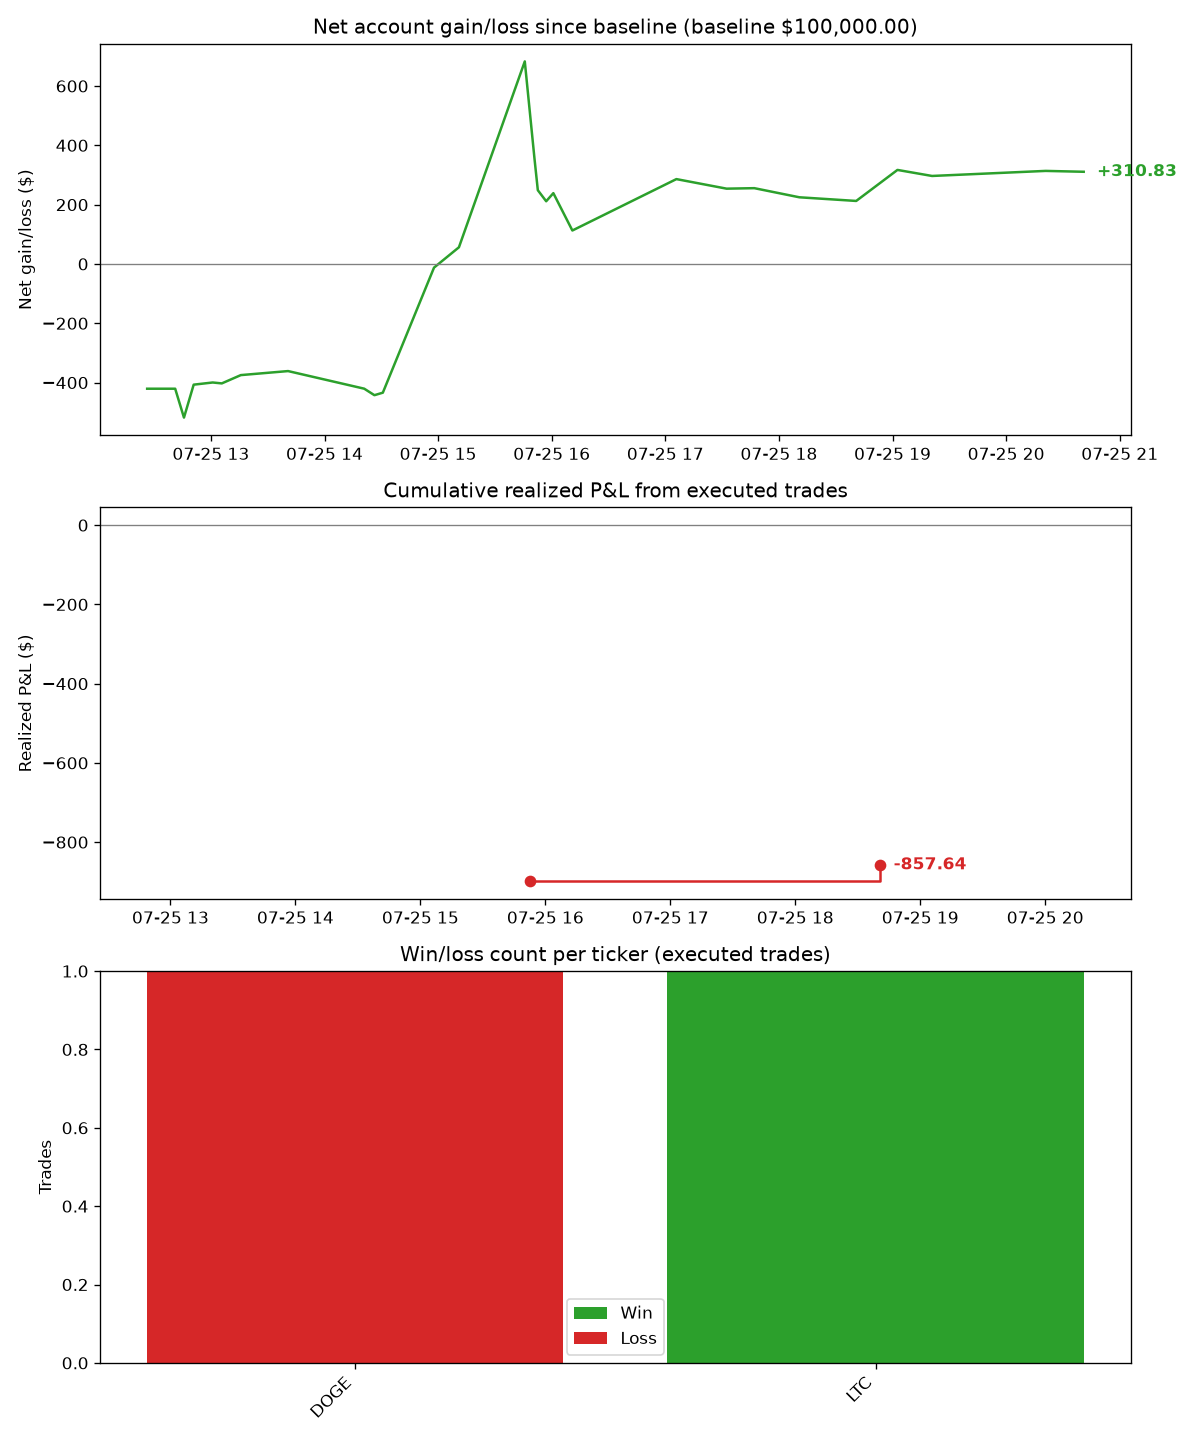
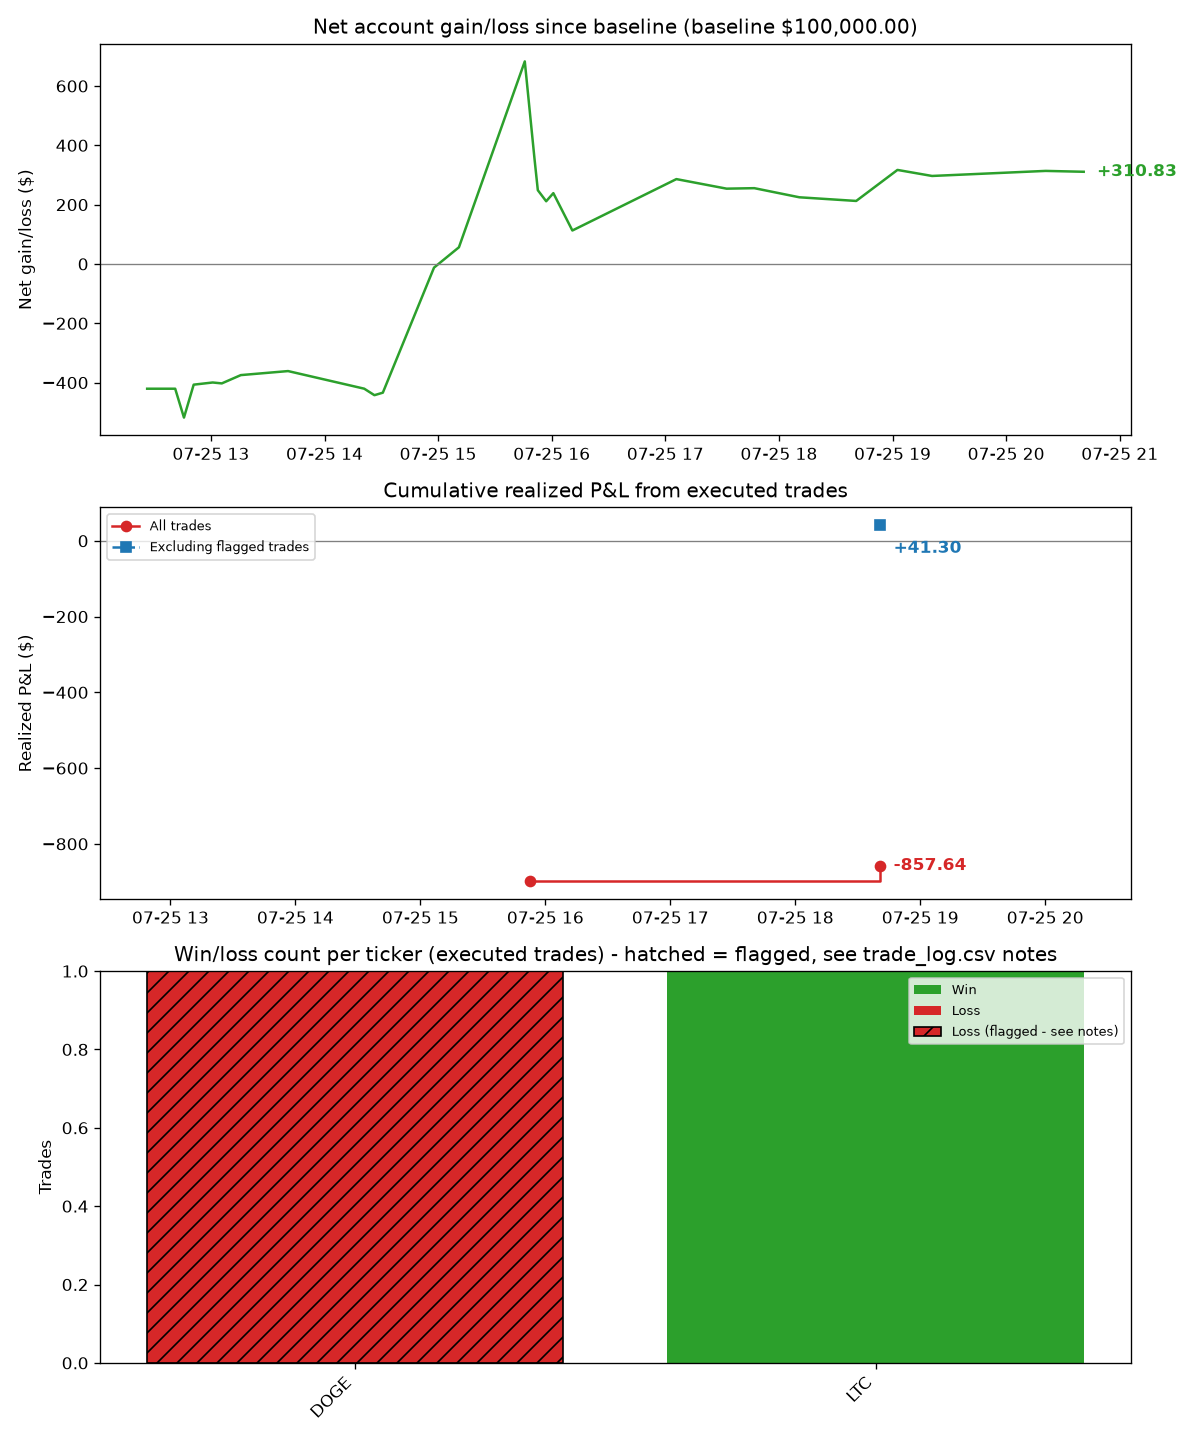
Add a way to flag unrepresentative trades without hiding them
The DOGE loss was real money lost, but its size (and therefore the
loss) was inflated by the now-fixed position-detection bug, not a
normal consequence of the strategy's own entry/exit logic. Silently
excluding it would be dishonest; showing it with zero context blends a
one-time operational bug in with the strategy's actual track record,
overstating how badly the rules themselves are performing.

Added a "notes" column to trade_log.csv - manual, empty by default,
never auto-populated - for flagging a specific trade this way. Backfilled
the DOGE row with an explanation of exactly why it's flagged. Updated
visualize_log.py to use it: the win/loss panel hatches flagged trades
instead of blending them in, and the cumulative realized P&L panel adds
an "excluding flagged trades" line alongside the real one, so both the
honest full history (-$857.64, including DOGE) and the "how are the
rules actually doing" view (+$41.30, LTC only) are visible together.
README updated to document the new column.

diff --git a/visualize_log.py b/visualize_log.py
@@ -14,9 +14,16 @@ Three panels:
      the *trades themselves* are profitable, separate from e.g. paper cash
      just sitting there or unrealized swings on open positions. Approximate:
      (sell price - entry price) * qty sold, ignoring the exact fee Alpaca
-     charged that trade.
+     charged that trade. If any trade has a note in trade_log.csv's
+     `notes` column (e.g. flagging it as inflated by a since-fixed bug,
+     not representative of the strategy's own decision quality), a
+     second "excluding flagged trades" line is plotted alongside the
+     real one - never hidden, just distinguished, so both the honest
+     full history and the "how is the strategy itself doing" view are
+     visible at once.
   3. Win/loss count per ticker, from the same executed SELL trades - which
-     tickers are actually working vs. not.
+     tickers are actually working vs. not. Flagged trades are hatched in
+     this panel too, same reasoning as above.
 
 Reads whatever data exists; a strategy that trades rarely will produce a
 sparse panel 2/3, not an error. Doesn't hit the network or place any
@@ -70,6 +77,12 @@ def main():
             sells["realized_pnl_usd"] = (
                 sells["price_usd"] - sells["avg_entry_price_usd"]
             ) * sells["position_qty_before"]
+            # Older trade_log.csv files (before "notes" existed) won't have
+            # this column at all - treat that the same as "nothing flagged".
+            if "notes" in sells.columns:
+                sells["flagged"] = sells["notes"].notna() & (sells["notes"].astype(str).str.strip() != "")
+            else:
+                sells["flagged"] = False
 
     fig, axes = plt.subplots(3, 1, figsize=(10, 12))
 
@@ -101,10 +114,34 @@ def main():
     if not sells.empty:
         cum_pnl = sells.set_index("timestamp_utc")["realized_pnl_usd"].cumsum()
         color = "tab:green" if cum_pnl.iloc[-1] >= 0 else "tab:red"
+        has_flagged = sells["flagged"].any()
         # marker="o" so a single trade (a single point - nothing to "step"
         # between yet) still shows up as something visible rather than an
         # empty-looking plot.
-        ax.step(cum_pnl.index, cum_pnl.values, where="post", color=color, marker="o")
+        ax.step(cum_pnl.index, cum_pnl.values, where="post", color=color, marker="o",
+                label="All trades" if has_flagged else None)
+        ax.annotate(
+            f"{cum_pnl.iloc[-1]:+,.2f}",
+            xy=(cum_pnl.index[-1], cum_pnl.iloc[-1]),
+            xytext=(8, 0), textcoords="offset points",
+            fontweight="bold", color=color, va="center",
+        )
+
+        if has_flagged:
+            clean = sells[~sells["flagged"]]
+            if not clean.empty:
+                cum_clean = clean.set_index("timestamp_utc")["realized_pnl_usd"].cumsum()
+                clean_color = "tab:blue"
+                ax.step(cum_clean.index, cum_clean.values, where="post", color=clean_color,
+                        marker="s", linestyle="--", label="Excluding flagged trades")
+                ax.annotate(
+                    f"{cum_clean.iloc[-1]:+,.2f}",
+                    xy=(cum_clean.index[-1], cum_clean.iloc[-1]),
+                    xytext=(8, -14), textcoords="offset points",
+                    fontweight="bold", color=clean_color, va="center",
+                )
+            ax.legend(loc="upper left", fontsize=8)
+
         ax.axhline(0, color="gray", linewidth=0.8)
         ax.set_title("Cumulative realized P&L from executed trades")
         ax.set_ylabel("Realized P&L ($)")
@@ -117,31 +154,44 @@ def main():
         elif len(cum_pnl) == 1:
             pad = pd.Timedelta(hours=1)
             ax.set_xlim(cum_pnl.index[0] - pad, cum_pnl.index[0] + pad)
-        ax.annotate(
-            f"{cum_pnl.iloc[-1]:+,.2f}",
-            xy=(cum_pnl.index[-1], cum_pnl.iloc[-1]),
-            xytext=(8, 0), textcoords="offset points",
-            fontweight="bold", color=color, va="center",
-        )
     else:
         ax.set_title("Cumulative realized P&L from executed trades (no closed trades yet)")
         ax.text(0.5, 0.5, "No executed SELL trades in logs/trade_log.csv yet", ha="center", va="center")
 
     ax = axes[2]
     if not sells.empty:
-        wins = sells[sells["realized_pnl_usd"] > 0].groupby("ticker").size()
-        losses = sells[sells["realized_pnl_usd"] <= 0].groupby("ticker").size()
-        tickers = sorted(set(wins.index) | set(losses.index))
-        wins = wins.reindex(tickers, fill_value=0)
-        losses = losses.reindex(tickers, fill_value=0)
+        is_win = sells["realized_pnl_usd"] > 0
+        tickers = sorted(sells["ticker"].unique())
+
+        def counts(mask):
+            return sells[mask].groupby("ticker").size().reindex(tickers, fill_value=0)
+
+        wins_clean = counts(is_win & ~sells["flagged"])
+        wins_flagged = counts(is_win & sells["flagged"])
+        losses_clean = counts(~is_win & ~sells["flagged"])
+        losses_flagged = counts(~is_win & sells["flagged"])
+
         x = range(len(tickers))
-        ax.bar(x, wins.values, label="Win", color="tab:green")
-        ax.bar(x, losses.values, bottom=wins.values, label="Loss", color="tab:red")
+        ax.bar(x, wins_clean.values, label="Win", color="tab:green")
+        bottom = wins_clean.values
+        if wins_flagged.sum() > 0:
+            ax.bar(x, wins_flagged.values, bottom=bottom, label="Win (flagged - see notes)",
+                   color="tab:green", hatch="//", edgecolor="black")
+            bottom = bottom + wins_flagged.values
+        ax.bar(x, losses_clean.values, bottom=bottom, label="Loss", color="tab:red")
+        bottom = bottom + losses_clean.values
+        if losses_flagged.sum() > 0:
+            ax.bar(x, losses_flagged.values, bottom=bottom, label="Loss (flagged - see notes)",
+                   color="tab:red", hatch="//", edgecolor="black")
+
         ax.set_xticks(list(x))
         ax.set_xticklabels(tickers, rotation=45, ha="right")
-        ax.set_title("Win/loss count per ticker (executed trades)")
+        title = "Win/loss count per ticker (executed trades)"
+        if sells["flagged"].any():
+            title += " - hatched = flagged, see trade_log.csv notes"
+        ax.set_title(title)
         ax.set_ylabel("Trades")
-        ax.legend()
+        ax.legend(fontsize=8)
     else:
         ax.set_title("Win/loss count per ticker (no closed trades yet)")
         ax.text(0.5, 0.5, "No executed SELL trades in logs/trade_log.csv yet", ha="center", va="center")

diff --git a/live_trade.py b/live_trade.py
@@ -41,8 +41,13 @@ TRADE_LOG_PATH = Path("logs/trade_log.csv")
 TRADE_LOG_FIELDS = [
     "timestamp_utc", "mode", "asset_class", "ticker", "strategy",
     "action", "price_usd", "notional_usd", "position_qty_before",
-    "avg_entry_price_usd", "unrealized_gain_pct", "order_placed",
+    "avg_entry_price_usd", "unrealized_gain_pct", "order_placed", "notes",
 ]
+# "notes" is never auto-populated by the bot - it's a manual annotation
+# slot for flagging a specific trade as unrepresentative (e.g. inflated
+# by a since-fixed bug), so visualize_log.py can show both "as it
+# happened" and "excluding known anomalies" without ever deleting or
+# hiding the real data.
 
 # Deliberately separate from trade_log.csv and always one row per run (not
 # per ticker): trade_log.csv only records actual BUY/SELL decisions - most
@@ -304,6 +309,7 @@ def main():
                 "avg_entry_price_usd": f"{decision['entry_price']:.6f}" if decision["entry_price"] else "",
                 "unrealized_gain_pct": f"{decision['gain_pct'] * 100:.2f}" if decision["gain_pct"] is not None else "",
                 "order_placed": executed,
+                "notes": "",
             })
 
     log_equity({

diff --git a/README.md b/README.md
@@ -706,9 +706,15 @@ Every `live_trade.py` run writes to two separate CSVs, both git-tracked so
   (dry-run or executed): `timestamp_utc`, `mode`, `asset_class`, `ticker`,
   `strategy`, `action`, `price_usd`, `notional_usd`,
   `position_qty_before`, `avg_entry_price_usd`, `unrealized_gain_pct`
-  (already a percentage, e.g. `1.08` means +1.08%, not `0.0108`), and
-  `order_placed` (whether it was a live order vs. a dry run). **HOLD
-  decisions are not logged here** - see below for why.
+  (already a percentage, e.g. `1.08` means +1.08%, not `0.0108`),
+  `order_placed` (whether it was a live order vs. a dry run), and `notes`
+  - a manual annotation slot, empty by default, never written by the bot
+    itself. Use it to flag a specific trade as unrepresentative (e.g.
+    "position was 2x intended size due to a since-fixed bug") without
+    ever deleting or hiding the real result - `visualize_log.py` reads
+    this to show both the honest full history and a "how is the
+    strategy itself actually doing" view side by side, see below.
+  **HOLD decisions are not logged here** - see below for why.
 
 **Why HOLD isn't logged, and whether the crypto log will get "too big"
 eventually:** it would, if every 5-minute crypto run wrote a row per
